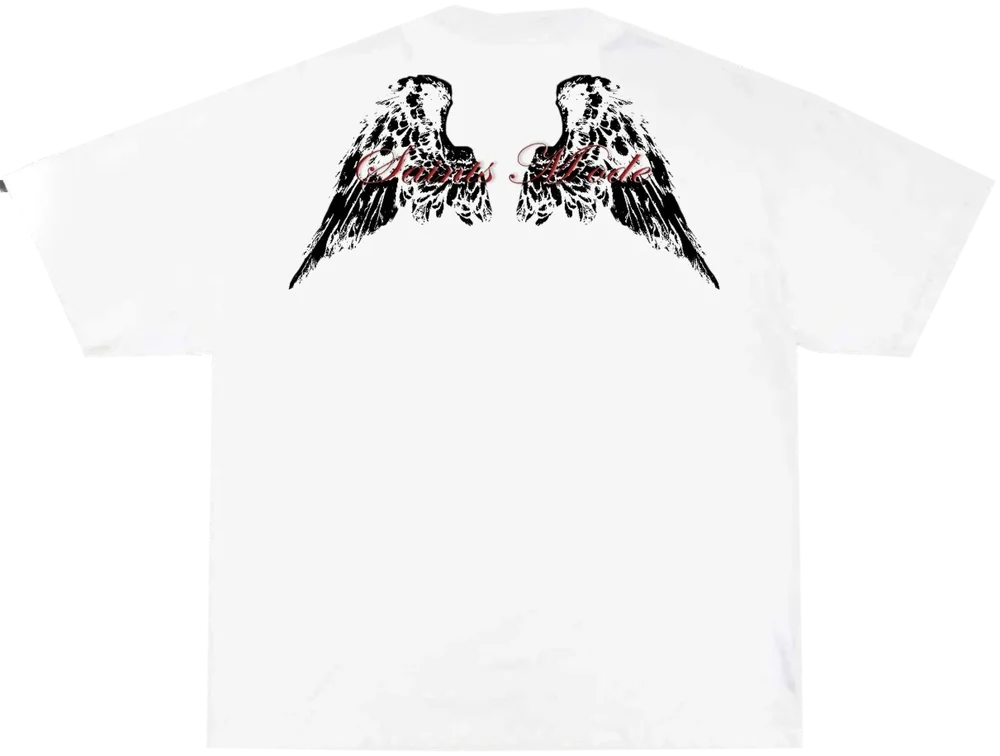
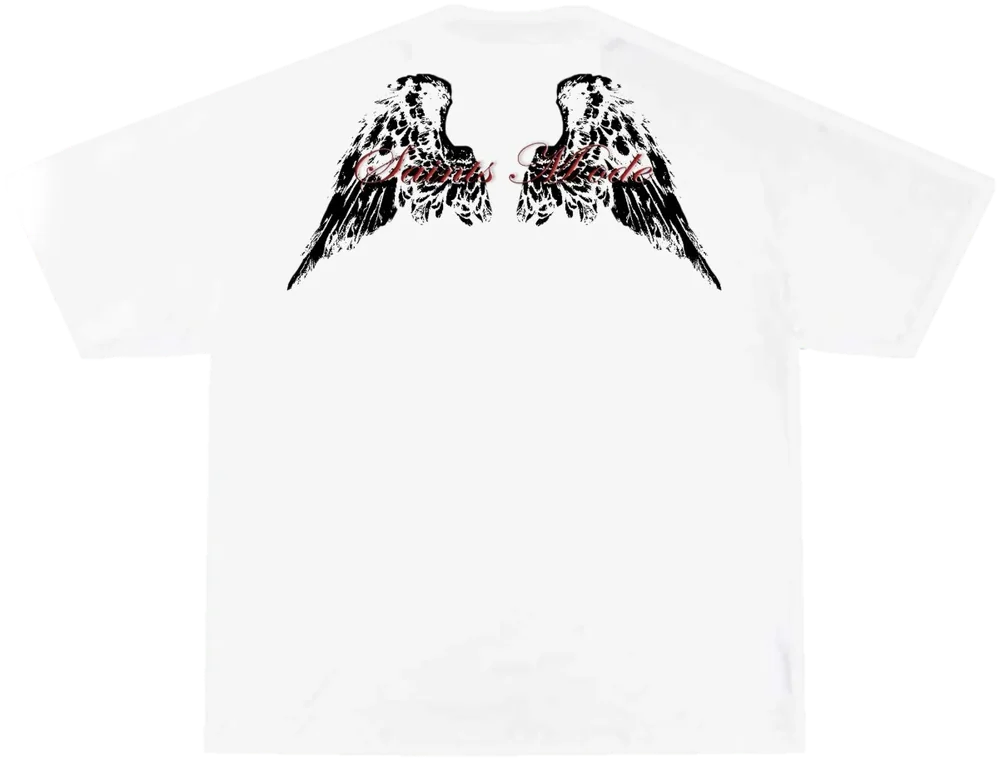
Camiseta blanca con borde limpio (cuello y mangas); modelo de pelo corto sin restos de fondo
Claude-Session: https://claude.ai/code/session_013ynmKTYERfCmJQKP2pb1Nx

Changed region(s): [[0.279, 0.0913, 0.713, 0.3955], [0.713, 0.3651, 0.744, 0.3955]]

diff --git a/tools/recorte/mock2.py b/tools/recorte/mock2.py
@@ -1,0 +1,59 @@
+import cv2, numpy as np
+from PIL import Image
+def cut(src, dst, white, thr, eps=0.0025):
+    im = np.asarray(Image.open(src).convert('RGB'))
+    g = cv2.cvtColor(im, cv2.COLOR_RGB2GRAY)
+    gb = cv2.GaussianBlur(g, (5, 5), 0)
+    m = ((gb > thr) if white else (gb < thr)).astype(np.uint8)
+    m = cv2.morphologyEx(m, cv2.MORPH_OPEN, np.ones((7, 7), np.uint8))
+    n, lab, st, _ = cv2.connectedComponentsWithStats(m, 8)
+    m = (lab == 1 + int(np.argmax(st[1:, cv2.CC_STAT_AREA]))).astype(np.uint8)
+    m = cv2.morphologyEx(m, cv2.MORPH_CLOSE, np.ones((31, 31), np.uint8))
+    cs, _ = cv2.findContours(m, cv2.RETR_EXTERNAL, cv2.CHAIN_APPROX_NONE)
+    c = max(cs, key=cv2.contourArea)
+    ap = cv2.approxPolyDP(c, eps * cv2.arcLength(c, True), True)
+    S = 4; h, w = m.shape
+    big = np.zeros((h * S, w * S), np.uint8)
+    cv2.fillPoly(big, [(ap * S).astype(np.int32)], 255, lineType=cv2.LINE_AA)
+    a = cv2.resize(big, (w, h), interpolation=cv2.INTER_AREA).astype(np.float32) / 255
+    # meter el borde unos píxeles para no arrastrar el brillo del fondo
+    px = max(3, int(min(w, h) * 0.004))
+    a = cv2.erode(a, np.ones((px, px), np.uint8))
+    # en la franja del borde, lo que no sea del color de la camiseta se va
+    inner = cv2.erode((a > 0.99).astype(np.uint8), np.ones((px * 3, px * 3), np.uint8))
+    band = (a > 0) & (inner == 0)
+    ok = (g > thr - 25) if white else (g < thr + 30)
+    a = np.where(band & ~ok, 0, a)
+    if white:
+        # manchas de fondo pegadas al borde (cuello, puntas de manga): todo lo
+        # que no es blanco y toca el borde se va; el estampado no toca el borde
+        dk = ((g < 205) & (a > 0)).astype(np.uint8)
+        n2, lab2 = cv2.connectedComponents(dk, connectivity=8)
+        touch = np.unique(lab2[band & (dk > 0)])
+        kill = np.isin(lab2, touch[touch > 0])
+        kill = cv2.dilate(kill.astype(np.uint8), np.ones((3, 3), np.uint8)) > 0
+        a = np.where(kill, 0, a)
+    a = cv2.GaussianBlur(a, (3, 3), 0)
+    # color del borde: el de la camiseta
+    rgb = im.astype(np.float32)
+    if not white:
+        rgb = np.where(band[..., None], np.minimum(rgb, 22), rgb)
+    else:
+        # franja ancha del borde pintada de blanco de camiseta (se van piquitos grises del cuello y la manga)
+        wide = (a > 0) & (cv2.erode((a > 0.99).astype(np.uint8), np.ones((px * 6, px * 6), np.uint8)) == 0)
+        # en la franja, lo oscuro (motas del fondo) se vuelve transparente y el borde se alisa
+        dark = wide & (g < 215)
+        dark = cv2.dilate(dark.astype(np.uint8), np.ones((5, 5), np.uint8)) > 0
+        a = np.where(dark & wide, 0, a)
+        sm = cv2.morphologyEx((a > 0.5).astype(np.uint8), cv2.MORPH_OPEN, np.ones((px * 3, px * 3), np.uint8))
+        sm = cv2.morphologyEx(sm, cv2.MORPH_CLOSE, np.ones((px * 3, px * 3), np.uint8))
+        a = cv2.GaussianBlur(sm.astype(np.float32), (5, 5), 0)
+        k = cv2.GaussianBlur(wide.astype(np.float32), (9, 9), 0)[..., None]
+        rgb = rgb * (1 - k) + np.maximum(rgb, 244) * k
+    x, y, bw, bh = cv2.boundingRect((a > 0.5).astype(np.uint8))
+    rgba = np.dstack([rgb, a * 255])[max(0, y - 6):y + bh + 6, max(0, x - 6):x + bw + 6]
+    out = Image.fromarray(np.clip(rgba, 0, 255).astype(np.uint8), 'RGBA'); out.thumbnail((1400, 1400), Image.LANCZOS)
+    out.save(dst, 'WEBP', quality=88, alpha_quality=95, method=6)
+for v in ['frente', 'espalda']:
+    cut(f'src/blanco-{v}.png', f'cut4_blanco-{v}.webp', True, 226, 0.004)
+    cut(f'src/negro-{v}.png', f'cut4_negro-{v}.webp', False, 24)

diff --git a/tools/recorte/chica.py b/tools/recorte/chica.py
@@ -1,0 +1,34 @@
+import numpy as np, cv2
+from PIL import Image
+a = np.asarray(Image.open('cut4_blanco-chica-frente.webp').convert('RGBA')).astype(np.float32)
+rgb = a[..., :3]; mx = rgb.max(-1); mn = rgb.min(-1); sat = (mx - mn) / np.maximum(mx, 1)
+lum = rgb @ np.array([0.299, 0.587, 0.114]); R, G, B = rgb[..., 0], rgb[..., 1], rgb[..., 2]
+def kill(box, m):
+    x0, y0, x1, y1 = box; z = np.zeros(m.shape, bool); z[y0:y1, x0:x1] = True
+    k = cv2.dilate((m & z).astype(np.uint8), np.ones((3, 3), np.uint8)).astype(np.float32)
+    a[..., 3] *= 1 - cv2.GaussianBlur(k, (3, 3), 0)
+# banquito negro junto a la pierna y detrás de la mano
+neutral_dark = (mx < 70) & ((B - R) < 18)
+kill((50, 1085, 200, 1350), neutral_dark)
+# pared beige entre las piernas
+kill((515, 1270, 605, 1384), (lum > 80) & (sat < 0.36))
+kill((535, 1295, 592, 1384), (B < R) & (lum < 110))  # pared en sombra (malva oscuro)
+# borde liso: hombro izquierdo y lado de la pierna (sin picos)
+def smooth(box, sig):
+    x0, y0, x1, y1 = box
+    reg = a[y0:y1, x0:x1, 3] / 255
+    sm = cv2.GaussianBlur(reg, (0, 0), sig); sm = np.clip((sm - 0.5) * 2.4 + 0.5, 0, 1)
+    a[y0:y1, x0:x1, 3] = np.minimum(reg, sm) * 255
+smooth((0, 320, 160, 900), 3.5)
+smooth((90, 1080, 210, 1360), 3.0)
+smooth((480, 1220, 620, 1386), 2.5)
+# halo de pared del hombro: meter el borde 2 px
+z = a[320:900, 0:160, 3] / 255
+a[320:900, 0:160, 3] = np.minimum(z, cv2.erode(z, np.ones((5, 5), np.uint8))) * 255
+im = Image.fromarray(np.clip(a, 0, 255).astype(np.uint8), 'RGBA')
+im.save('cut5_blanco-chica-frente.webp', 'WEBP', quality=90, alpha_quality=95, method=6)
+b = Image.new('RGBA', im.size, (28, 28, 30, 255)); b.alpha_composite(im)
+crops = [b.crop((0, 300, 300, 700)), b.crop((0, 1050, 300, 1400)), b.crop((420, 1180, 700, 1460))]
+W = sum(c.width + 10 for c in crops); s = Image.new('RGB', (W, 400), 'white'); x = 0
+for c in crops: s.paste(c.convert('RGB'), (x, 0)); x += c.width + 10
+s.save('chica_fix.png')
